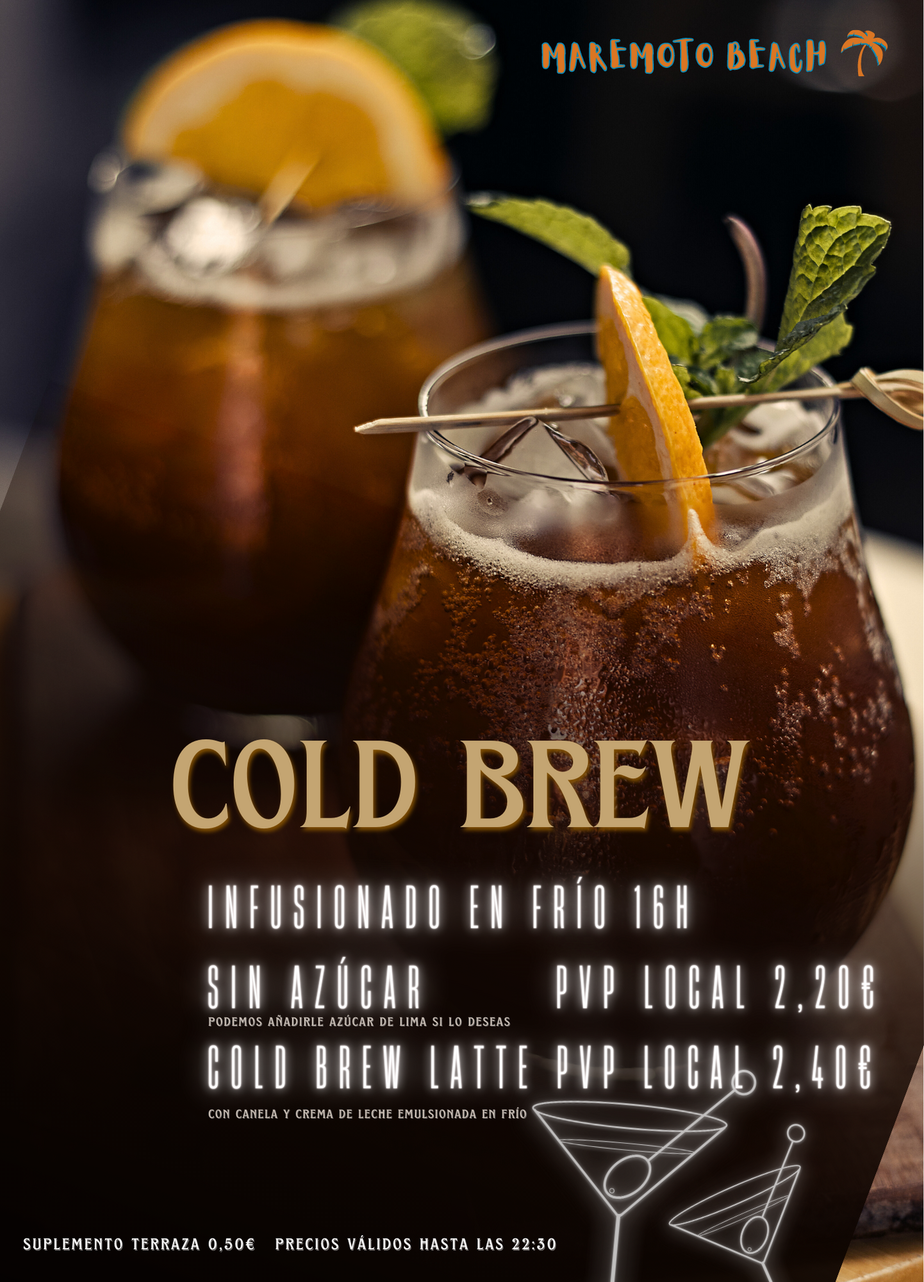
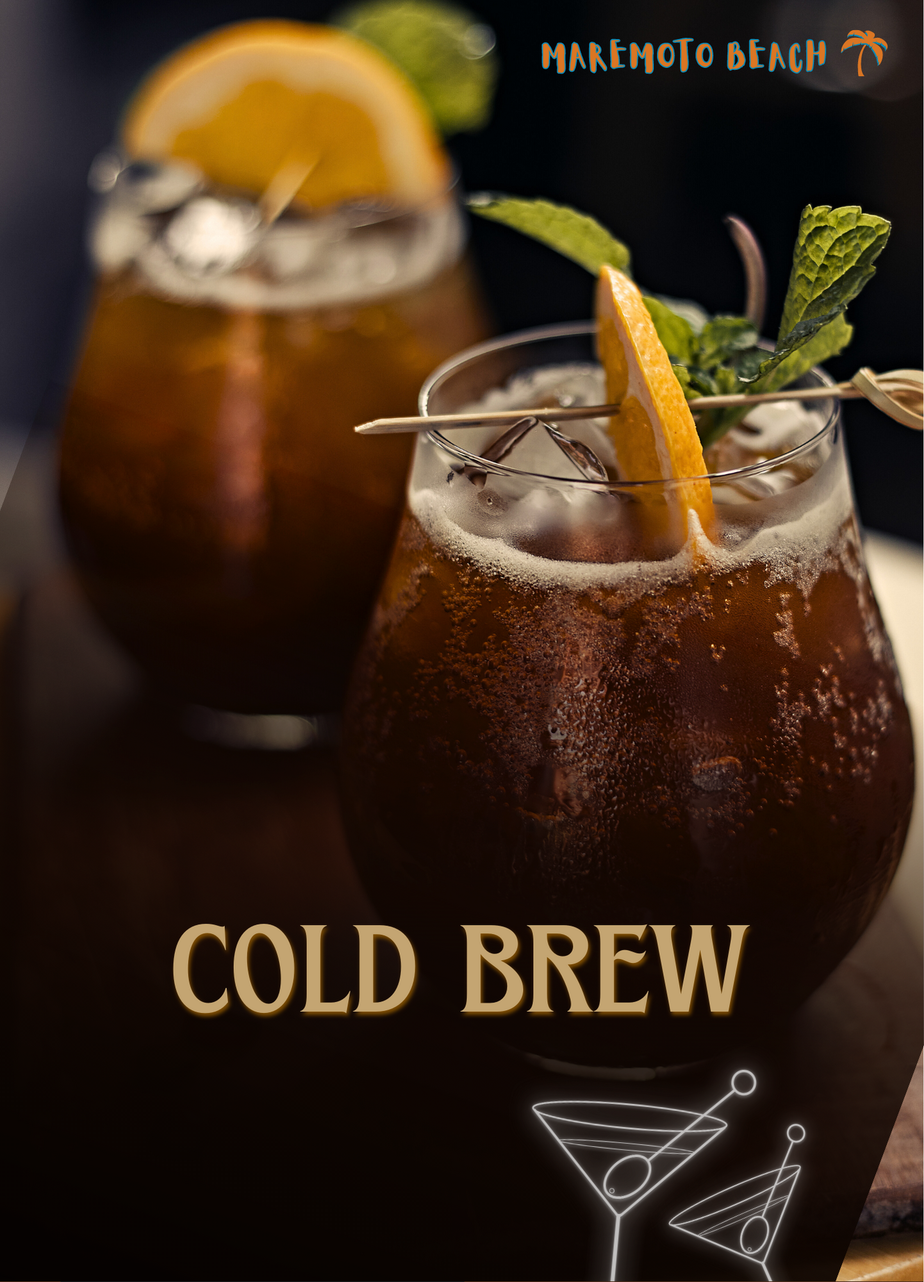
deploy: 69082e88ac5d87e19fc20b72965e7e57fac704c4

diff --git a/index.html b/index.html
@@ -152,7 +152,7 @@ Carta</span></h2><div class=border-meghna></div></div></div></div><div class="ro
 <i class="las la-search"></i></div></a></div></figure><figure class="col-lg-4 shuffle-item" data-groups='["0e4289bca67302dd005790003de478e2","b34b0f802613ce0a65924e6e6d56087d"]'><div class="menu-block mb-4"><a class=open-popup-inline href=#carta-img65><img class="lozad img-fluid" data-src=/carta/cocteldecoctel_hu507248af2e0c2f2cf7b231d6f81ede0f_144383_465x350_fit_q100_box.jpg alt="Cóctel de Cóctel 🥜🌽🆕"><div class=caption><span>Cóctel de Cóctel 🥜🌽🆕</span>
 <i class="las la-search"></i></div></a></div></figure><figure class="col-lg-4 shuffle-item" data-groups='["bfee8906259b5e03945e5c6352fdef28","83996417ad1a19fd4efcaad540a9ec41"]'><div class="menu-block mb-4"><a class=open-popup-inline href=#carta-img66><img class="lozad img-fluid" data-src=/carta/309_hu11a1a1891fa0988c5d825dd96d65ab21_223053_465x350_fit_q100_box.jpg alt="Coffee Cream ☕"><div class=caption><span>Coffee Cream ☕</span>
 <i class="las la-search"></i></div></a></div></figure><figure class="col-lg-4 shuffle-item" data-groups='["bfee8906259b5e03945e5c6352fdef28","83996417ad1a19fd4efcaad540a9ec41"]'><div class="menu-block mb-4"><a class=open-popup-inline href=#carta-img67><img class="lozad img-fluid" data-src=/carta/310_hub679bb66d41e5f48d0e22aea1dd8dd1b_151066_465x350_fit_q100_box.jpg alt="Coffee Licor ☕"><div class=caption><span>Coffee Licor ☕</span>
-<i class="las la-search"></i></div></a></div></figure><figure class="col-lg-4 shuffle-item" data-groups='["bfee8906259b5e03945e5c6352fdef28","e75314bfc0e25377cdfd86110551909f","22a5f4dd7f7568ccaa0057223fea5823"]'><div class="menu-block mb-4"><a class=open-popup-inline href=#carta-img68><img class="lozad img-fluid" data-src=/carta/coldbrew_hud58517bc667996357cc374ab967ddaf0_3677866_465x350_fit_q100_bgffffff_box_3.jpg alt="Cold Brew y Cold Brew Latte ❄ 🆕"><div class=caption><span>Cold Brew y Cold Brew Latte ❄ 🆕</span>
+<i class="las la-search"></i></div></a></div></figure><figure class="col-lg-4 shuffle-item" data-groups='["bfee8906259b5e03945e5c6352fdef28","e75314bfc0e25377cdfd86110551909f","22a5f4dd7f7568ccaa0057223fea5823"]'><div class="menu-block mb-4"><a class=open-popup-inline href=#carta-img68><img class="lozad img-fluid" data-src=/carta/coldbrew_hud58517bc667996357cc374ab967ddaf0_3525150_465x350_fit_q100_bgffffff_box_3.jpg alt="Cold Brew y Cold Brew Latte ❄ 🆕"><div class=caption><span>Cold Brew y Cold Brew Latte ❄ 🆕</span>
 <i class="las la-search"></i></div></a></div></figure><figure class="col-lg-4 shuffle-item" data-groups='["0e4289bca67302dd005790003de478e2","2862c5a8be6c58579a9fb8586143b38f"]'><div class="menu-block mb-4"><a class=open-popup-inline href=#carta-img69><img class="lozad img-fluid" data-src=/carta/264_hu2c40373d3c5c30a8b2c949aec22bd00a_145609_465x350_fit_q100_box.jpg alt="Cold Green Chilli Peppers"><div class=caption><span>Cold Green Chilli Peppers</span>
 <i class="las la-search"></i></div></a></div></figure><figure class="col-lg-4 shuffle-item" data-groups='["0e4289bca67302dd005790003de478e2","5b38d4fc03d9b2af5b32aecb51f8d9b0"]'><div class="menu-block mb-4"><a class=open-popup-inline href=#carta-img70><img class="lozad img-fluid" data-src=/carta/372_hu0d692ee530b09efc379725bcd338fc99_70556_465x350_fit_q100_box.jpg alt=Cosmopolitan><div class=caption><span>Cosmopolitan</span>
 <i class="las la-search"></i></div></a></div></figure><figure class="col-lg-4 shuffle-item" data-groups='["0e4289bca67302dd005790003de478e2","f4fb4e8d6bcb19d8b77736d08477c7b6"]'><div class="menu-block mb-4"><a class=open-popup-inline href=#carta-img71><img class="lozad img-fluid" data-src=/carta/249_hu7d6f53c9e52ca3cbf95dc1a9a7803183_140575_465x350_fit_q100_box.jpg alt="Crystal Head & Schweppes Toque de Lima."><div class=caption><span>Crystal Head & Schweppes Toque de Lima.</span>
@@ -899,15 +899,15 @@ Todas las tardes de 16h a 22,30h con tu Cappuccino Gratis una Cookie casera a el
 <span class=field-description>Cafe 100% arabica infusionado en frio 16 Horas. A la opción Latte le añadimos crema de Leche Fresca emulsionada en frío y un toque de Canela</span></p></div><div class=field-alergenos><p><i class="field-icon las la-times"></i>
 <span class=field-title>Alérgenos:</span>
 <span class=field-description><em>Leche</em></span></p></div><div class=field-txt_aclaraciones><p><i class="field-icon las la-info-circle"></i>
-<span class=field-description>El café obtenido mediante cold brew consigue una bebida muy rica en matices, con menor acidez y sin el amargor que tantos detractores tiene. Si lo deseas podemos añadirle un toque de Azúcar de lima.</span></p></div><div class=field-txt_temporal><p><i class="field-icon las la-calendar-alt"></i>
+<span class=field-description>El Cold Brew consigue una bebida muy rica en matices, con menor acidez y sin el amargor que tantos detractores tiene. Si lo deseas podemos añadirle un toque de Azúcar de lima.</span></p></div><div class=field-txt_temporal><p><i class="field-icon las la-calendar-alt"></i>
 <span class=field-title>Temporalidad:</span>
 <span class=field-description>Disponible todo el año</span></p></div><div class=field-grad_alcoholica><p><i class="field-icon las la-glass-martini"></i>
 <span class=field-title>Graduación:</span>
 <span class=field-description>0%</span></p></div><div class=field-pvp_local><p><i class="field-icon las la-money-bill-wave"></i>
 <span class=field-title>PVP en local:</span>
-<span class=field-description>Cold Brew 2,20€ Cold Brew Latte 2,40€</span></p></div><div class=field-pvp_terraza><p><i class="field-icon las la-money-bill-wave"></i>
+<span class=field-description>2,20€ Cold Brew Latte 2,40€</span></p></div><div class=field-pvp_terraza><p><i class="field-icon las la-money-bill-wave"></i>
 <span class=field-title>PVP en terraza:</span>
-<span class=field-description>Cold Brew 2,70€ Cold Brew Latte 2,90€</span></p></div></div></div></div><div id=carta-img69 class="carta-img mfp-hide"><div class=popup-content><div class=popup-img><img class=lozad data-src=/carta/264.jpg alt="Cold Green Chilli Peppers"></div><div class=popup-details><h1>Cold Green Chilli Peppers</h1><div class=field-ingredientes><p><i class="field-icon las la-book"></i>
+<span class=field-description>2,70€ Cold Brew Latte 2,90€</span></p></div></div></div></div><div id=carta-img69 class="carta-img mfp-hide"><div class=popup-content><div class=popup-img><img class=lozad data-src=/carta/264.jpg alt="Cold Green Chilli Peppers"></div><div class=popup-details><h1>Cold Green Chilli Peppers</h1><div class=field-ingredientes><p><i class="field-icon las la-book"></i>
 <span class=field-title>Ingredientes:</span>
 <span class=field-description>Tequila El Jimador, Licor de Chilli Ancho Reyes, Zumo de Lima, Sirope de Ágave y Ginger Beer.</span></p></div><div class=field-txt_aclaraciones><p><i class="field-icon las la-info-circle"></i>
 <span class=field-description>Delicioso Cocktail de carácter picante</span></p></div><div class=field-txt_temporal><p><i class="field-icon las la-calendar-alt"></i>
